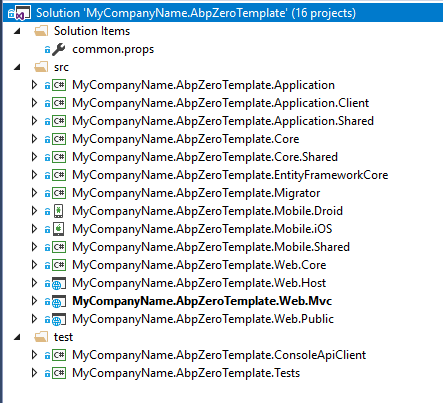
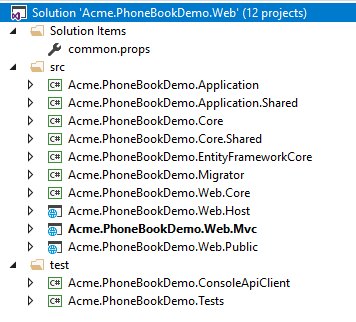
completed getting started guides

diff --git a/doc/Getting-Started-Angular.html b/doc/Getting-Started-Angular.html
@@ -22,7 +22,7 @@ password. Then you will see <a href="/Download">Download</a> link on the main me
 <p>Go to the <a href="/Download">download</a> page. You will see a form as shown 
 below:</p>
 <p>
-<img class="img-thumbnail" alt="Download angular" src="images/download-angular-2.png" /></p>
+<img class="img-thumbnail" alt="Download angular" src="images/download-angular-3.png" /></p>
 <p>Select <strong>ASP.NET Core &amp; Angular</strong> as Project Type and fill 
 other required fields. Your project will be ready 
 in one minute. When you open the downloaded zip file, you will see two folders:</p>
@@ -42,10 +42,12 @@ in one minute. When you open the downloaded zip file, you will see two folders:<
 	Client and Server solutions are designed to work separately by default but if you want to work on a single Visual Studio solution, you can select "One Solution" checkbox while downloading your project.
 </p>
 <h3>ASP.NET Core Application</h3>
-<p>When you open Server side solution in <strong>Visual Studio 2017+</strong>, you will see the 
+<p>When you open Server side solution
+<strong style="box-sizing: border-box; font-weight: 700; color: rgb(51, 51, 51); font-family: &quot;Helvetica Neue&quot;, Helvetica, Arial, sans-serif; font-size: 14px; font-style: normal; font-variant-ligatures: normal; font-variant-caps: normal; letter-spacing: normal; orphans: 2; text-align: start; text-indent: 0px; text-transform: none; white-space: normal; widows: 2; word-spacing: 0px; -webkit-text-stroke-width: 0px; background-color: rgb(255, 255, 255); text-decoration-style: initial; text-decoration-color: initial;">
+*.Web.sln</strong> in <strong>Visual Studio 2017+</strong>, you will see the 
 solution structure as like below:</p>
 <p>
-<img class="img-thumbnail" alt="AspNet Core solution structure" src="images/aspnet-core-host-solution-3.png" /></p>
+<img class="img-thumbnail" alt="AspNet Core solution structure" src="images/aspnet-core-host-solution-4.png" /></p>
 <p>
 Right click the 
 <strong>.Web.Host</strong> project and select "<strong>Set as StartUp project</strong>": Then <strong>
@@ -55,14 +57,14 @@ build</strong> the solution. It make take longer time in first build since all
 
 		<p>Open <strong>appsettings.json</strong> in <strong>.Web.Host</strong> project and change the  <strong>Default</strong> connection string if you want:</p>
 		<pre lang="js">"ConnectionStrings": {
-    "Default": "Server=localhost; Database=<strong>PhoneBookDb</strong>; Trusted_Connection=True;"
+    "Default": "Server=localhost; Database=<strong>PhoneBookDemoDb</strong>; Trusted_Connection=True;"
 }</pre>
 
 <h4 id="DocConfigureMigrations">Database Migrations</h4>
 <p>We have two options to create and migrate database to the latest version.</p>
 <h5>AspNet Zero Migrator Application</h5>
 <p>AspNet Zero solution includes a <strong>.Migrator</strong> (like 
-Acme.PhoneBook.Migrator) project in the solution. You can run 
+Acme.PhoneBookDemo.Migrator) project in the solution. You can run 
 this tool for database migrations on development and production (see
 <a href="Development-Guide-Angular.html">development guide</a> for more information).</p>
 
@@ -90,7 +92,7 @@ multi tenant applications.</p>
 Multi-tenancy is <strong>enabled by default</strong>. If you don't have idea 
 about multi-tenancy or don't want to create a multi-tenant application, you can
 <strong>disable</strong> it by setting <strong>
-AbpZeroTemplateConsts.MultiTenancyEnabled</strong> to false in the .Core 
+AbpZeroTemplateConsts.MultiTenancyEnabled</strong> to false in the .Core.Shared 
 project.</p>
 <h4>Run API Host</h4>
 
@@ -98,7 +100,7 @@ project.</p>
 application only contains APIs. So, default page is a swagger UI which can be 
 used to investigate the API:</p>
 <p>
-<img class="img-thumbnail" alt="Swagger UI" height="837" src="images/swagger-ui-ng2.png" width="973" /></p>
+<img class="img-thumbnail" alt="Swagger UI" src="images/swagger-ui-ng2-1.png" /></p>
 <h3>Angular Application</h3>
 <h4>Prerequirements</h4>
 <p>Angular application needs to following tools be installed:</p>
@@ -131,7 +133,7 @@ following command (instead of npm start) to enable HMR on development time:</p>
 
 <p>All ready.. just run your solution to enter to the login page:</p>
 <p>
-<img class="img-thumbnail" alt="Login page" height="511" src="images/login-screen-2.png" width="424" /></p>
+<img class="img-thumbnail" alt="Login page" src="images/login-screen-3.png" /></p>
 <p>If multi-tenancy is enabled, you will see the current tenant and a change 
 link. If so, click to <strong>Change</strong> like and enter <strong>default</strong> as tenant name. 
 If you leave it empty, you login as the host admin user. Then enter
@@ -141,12 +143,12 @@ should change password at first login. </p>
 <p>After login to the application, you will 
 see the sample dashboard screen:</p>
 <p>
-<img class="img-thumbnail" alt="Dashboard" height="965" src="images/dashboardV2.png" width="1235" /></p>
+<img class="img-thumbnail" alt="Dashboard" height="965" src="images/dashboardV3.png" width="1235" /></p>
 <h3 id="DocMore">More</h3>
 
 <p>Your solution is up and working.
 See
-<a href="Development-Guide-Angular.html"><span class="text-primary">development guide</span></a> document for more 
+<a href="Getting-Started-Xamarin.html"><span class="text-primary">getting started xamarin</span></a> for xamarin application, <a href="Development-Guide-Angular.html"><span class="text-primary">development guide</span></a> document for more 
 information.</p>
 
 <script src="libs/jquery/jquery-3.1.0.min.js" type="text/javascript"></script>

diff --git a/doc/Getting-Started-Core.html b/doc/Getting-Started-Core.html
@@ -25,8 +25,11 @@ below:</p>
 <img class="img-thumbnail" alt="Create project" src="images/download-core-jquery-2.png" /></p>
 <p>Select <strong>ASP.NET Core &amp; jQuery</strong> as Project Type and fill 
 other required fields. Click to the Download button, your project will be ready 
-in one minute. Open the solution in <strong>Visual Studio 2017+</strong>:</p>
-
+in one minute. Open the <strong>*.Web.sln</strong> solution in <strong>Visual Studio 2017+</strong>:</p>
+<div class="alert alert-warning">
+    <p>If you want to work on only Xamarin project, open <strong>*.Mobile.sln</strong> solution. If you want to work on both Xamarin and Web projects, open 
+	<strong>*.sln</strong> solution.</p>
+</div>
 <p>
 <img class="img-thumbnail" alt="ASP.NET Core solution" src="images/solution-overall-core-5.png" /></p>
 <p>
@@ -60,14 +63,14 @@ build</strong> the solution. It make take longer time in first build since all
 
 		<p>Open <strong>appsettings.json</strong> in <strong>.Web.Mvc</strong> project and change the  <strong>Default</strong> connection string if you want:</p>
 		<pre lang="js">"ConnectionStrings": {
-    "Default": "Server=localhost; Database=<strong>PhoneBookDb</strong>; Trusted_Connection=True;"
+    "Default": "Server=localhost; Database=<strong>PhoneBookDemoDb</strong>; Trusted_Connection=True;"
 }</pre>
 
 <h4 id="DocConfigureMigrations">Database Migrations</h4>
 <p>We have two options to create and migrate database to the latest version.</p>
 <h5>AspNet Zero Migrator Application</h5>
 <p>AspNet Zero solution includes a <strong>.Migrator</strong> (like 
-Acme.PhoneBook.Migrator) project in the solution. You can run 
+Acme.PhoneBookDemo.Migrator) project in the solution. You can run 
 this tool for database migrations on development and production (see
 <a href="Development-Guide-Core.html">development guide</a> for more information).</p>
 
@@ -118,7 +121,7 @@ see the sample dashboard screen:</p>
 
 <p>Your solution is up and working.
 See
-<a href="Development-Guide-Core.html"><span class="text-primary">development guide</span></a> document for more 
+<a href="Getting-Started-Xamarin.html"><span class="text-primary">getting started xamarin</span></a> for xamarin application, <a href="Development-Guide-Core.html"><span class="text-primary">development guide</span></a> document for more 
 information.</p>
 
 <script src="libs/jquery/jquery-3.1.0.min.js" type="text/javascript"></script>
